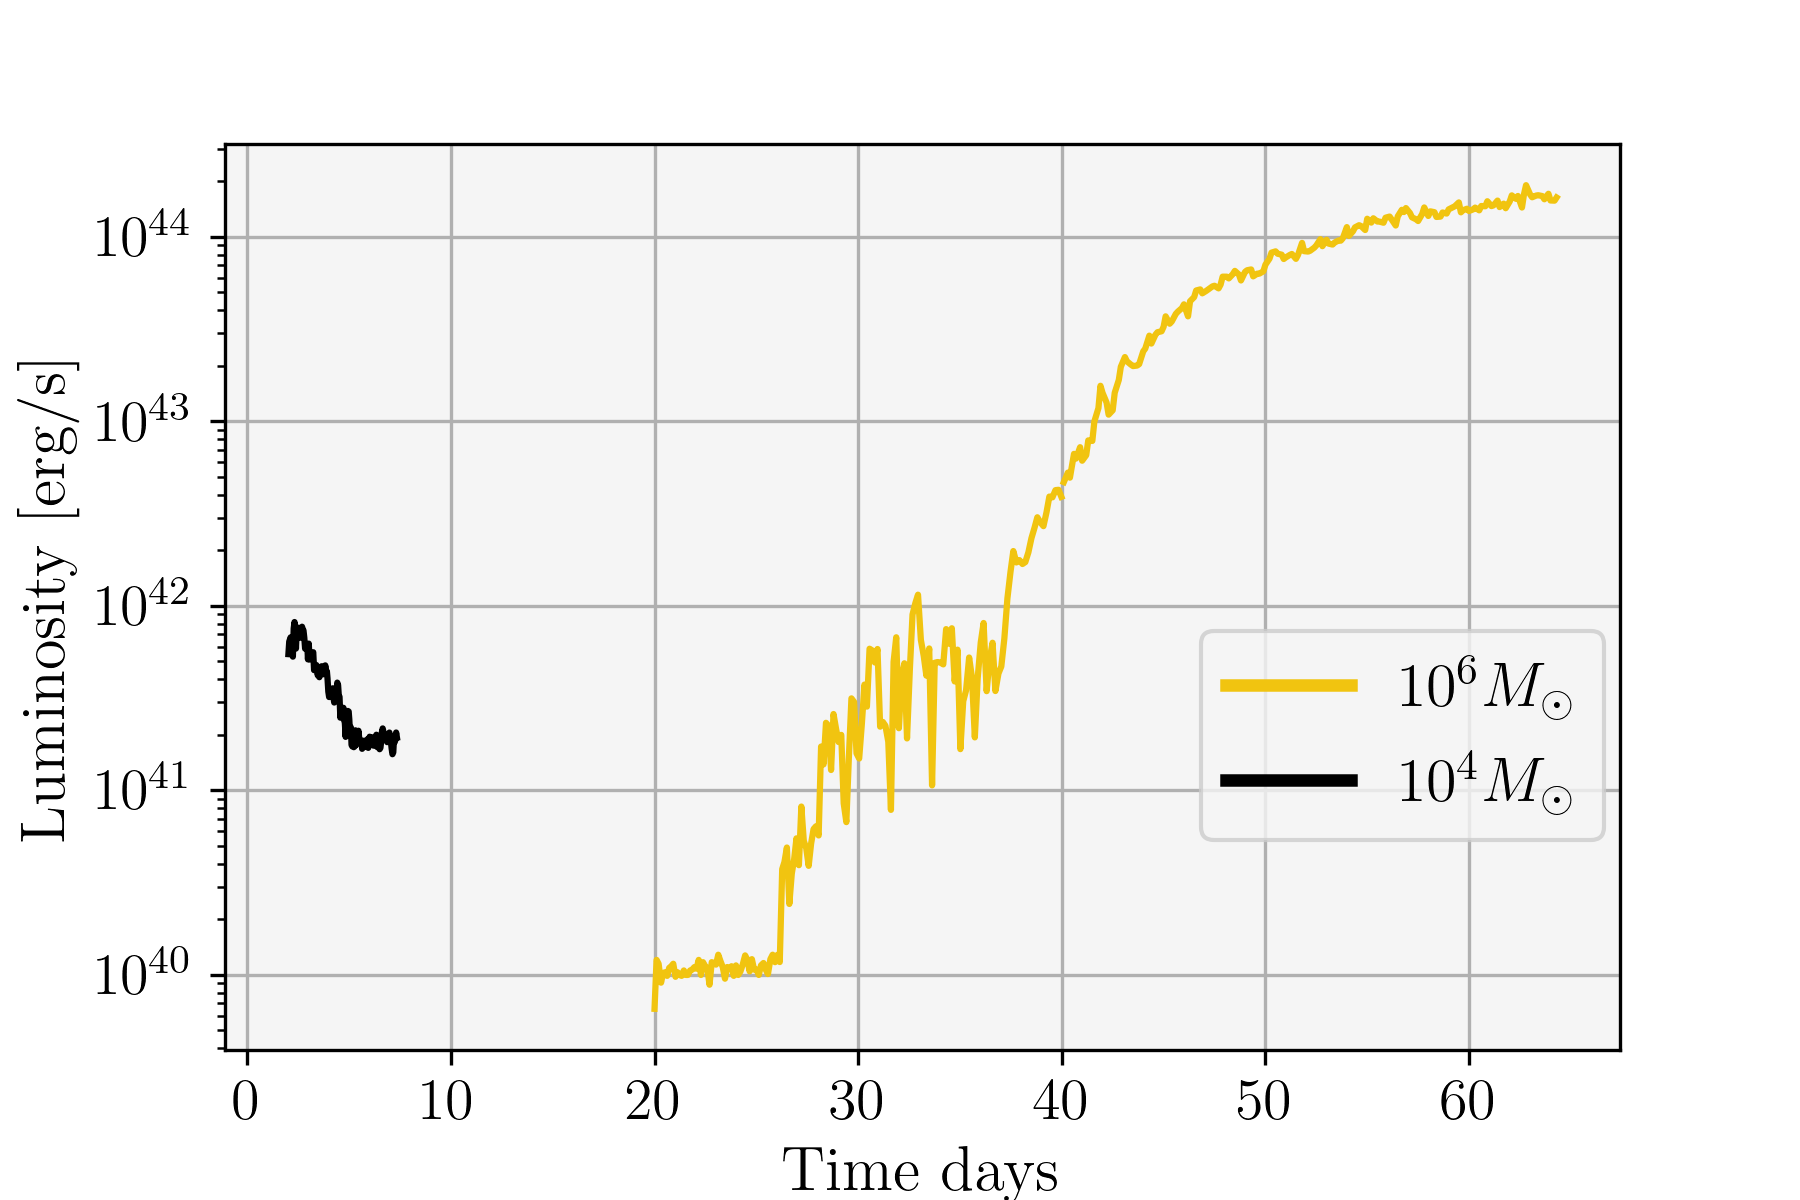
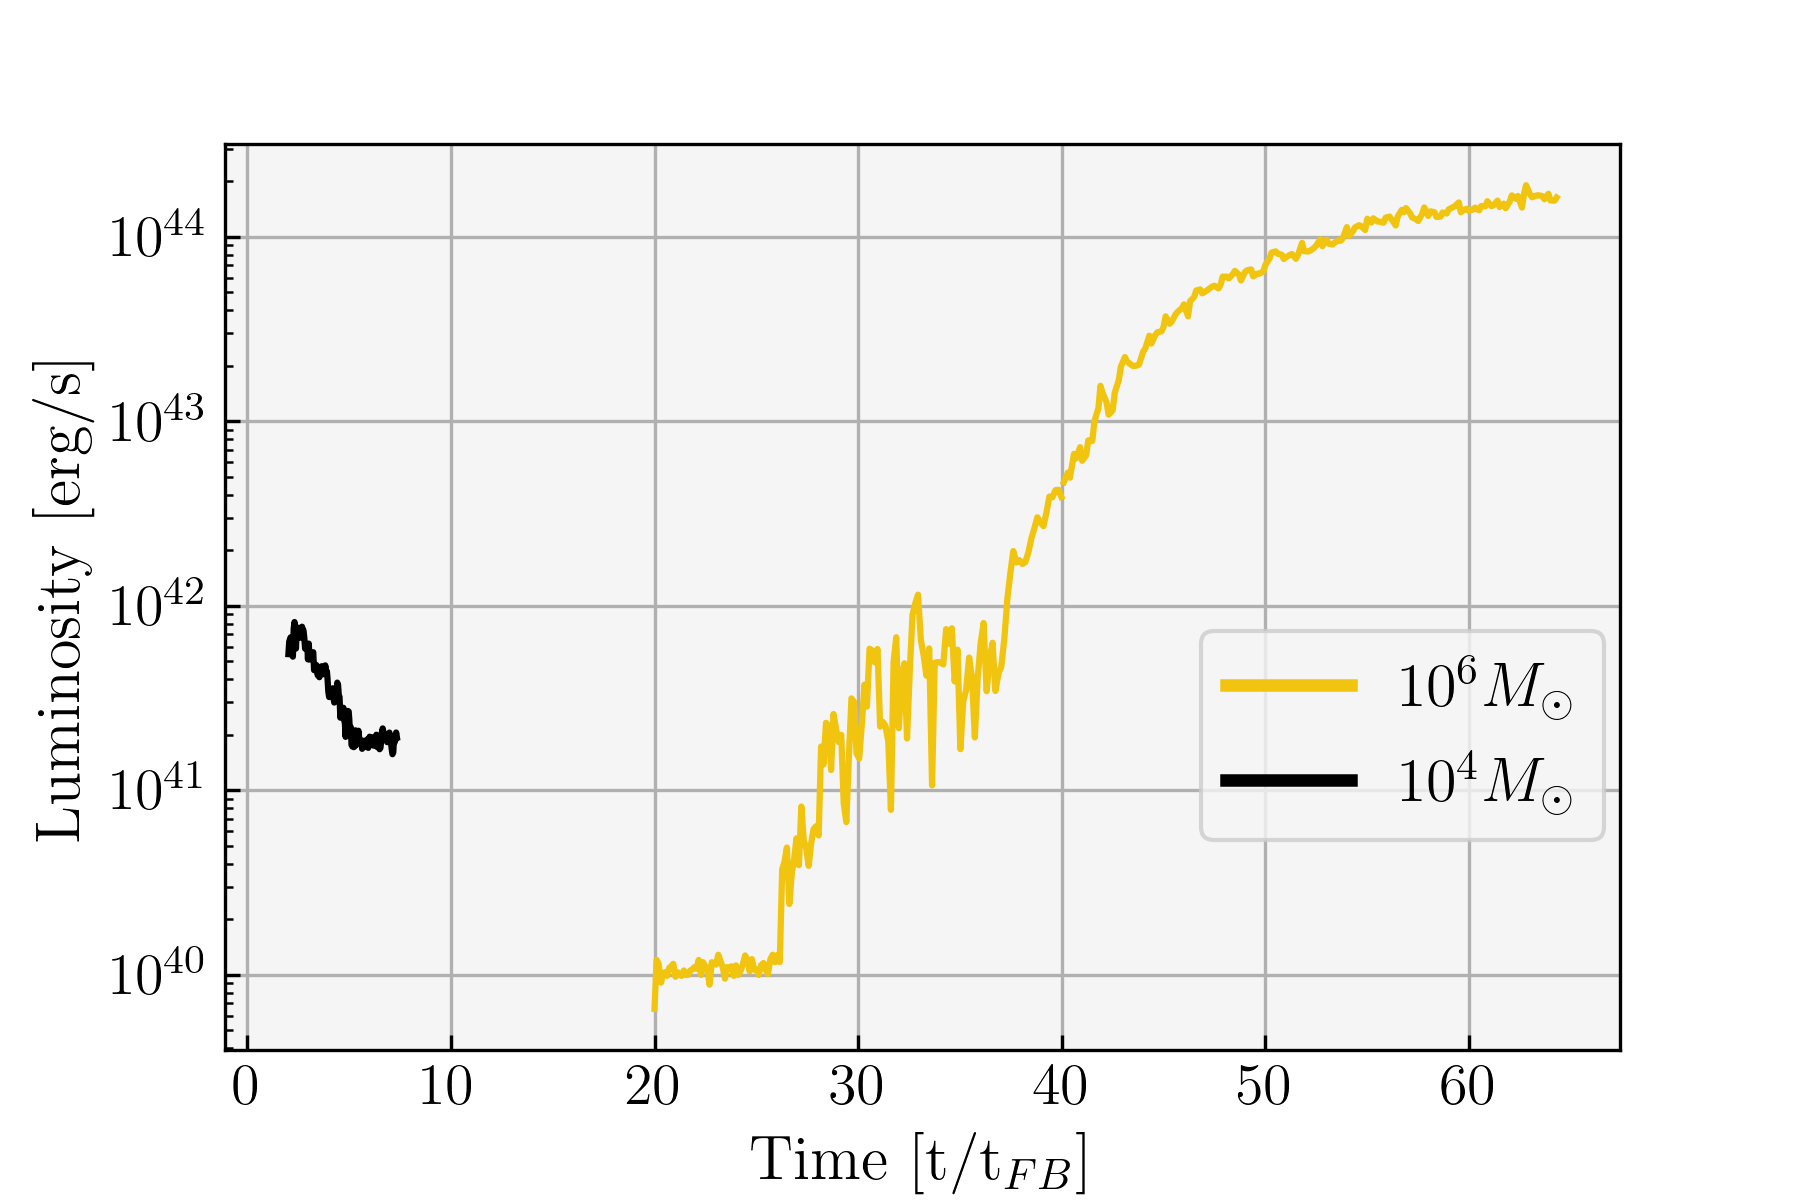
fixed observers. cloudy spectra compiles again

diff --git a/src/Luminosity/spectra_cloudy.py b/src/Luminosity/spectra_cloudy.py
@@ -3,7 +3,7 @@
 """
 Created on December 2023
 
-@author: paola 
+@author: paola, konstantinos
 
 Calculate the luminosity that we will use in the blue (BB) curve as sum of multiple BB.
 
@@ -21,27 +21,15 @@ from scipy.optimize import fsolve
 import h5py
 import healpy as hp
 
-
 # Chocolate Imports
+import src.Utilities.prelude as c
 from src.Opacity.cloudy_opacity import old_opacity 
 from src.Calculators.ray_forest import find_sph_coord, ray_maker_forest
-from src.Luminosity.special_radii_tree_cloudy import calc_specialr
-from src.Calculators.select_observers import select_observer 
-from src.Luminosity.select_path import select_snap
+from src.Luminosity.special_radii_tree import calc_specialr
+from src.Calculators.select_observers import select_observer# as select_observer
+from src.Utilities.selectors import select_snap
 from datetime import datetime
-plt.rcParams['text.usetex'] = True
-plt.rcParams['figure.dpi'] = 300
-plt.rcParams['figure.figsize'] = [5 , 4]
 
-# Constants
-c = 3e10 #2.99792458e10 #[cm/s]
-h = 6.62607015e-27 #[gcm^2/s]
-Kb = 1.380649e-16 #[erg/K]
-alpha = 7.5657e-15 #7.5646 * 10**(-15) # radiation density [erg/cm^3K^4]
-sigma_T = 6.6524e-25 #[cm^2] thomson cross section
-Msol_to_g = 2e33 #1.989e33 # [g]
-Rsol_to_cm = 6.957e10
-NSIDE = 4
 
 ###
 # FUNCTIONS
@@ -55,8 +43,8 @@ def log_array(n_min, n_max, lenght):
 
 def planck(Temperature: float, n: float) -> float:
     """ Planck function in a cell. It needs temperature and frequency n. """
-    const = 2*h/c**2
-    fun = const * n**3 / (np.exp(min(300,h*n/(Kb*Temperature))) - 1) #take min to avoid overflow
+    const = 2*c.h/c.c**2
+    fun = const * n**3 / (np.exp(min(300,c.h*n/(c.Kb*Temperature))) - 1) #take min to avoid overflow
 
     return fun
 
@@ -85,7 +73,7 @@ def normalisation(L_x: np.array, x_array: np.array, luminosity_fld: float) -> fl
 
 def find_lowerT(energy_density):
     """ Find temperature from energy density."""
-    T = (energy_density / alpha)**(1/4)
+    T = (energy_density / c.alpha)**(1/4)
     return T
 
 def spectrum(branch_T, branch_den, branch_en, branch_ie, branch_cumulative_taus, branch_v, radius, volume, bol_fld):
@@ -108,19 +96,19 @@ def spectrum(branch_T, branch_den, branch_en, branch_ie, branch_cumulative_taus,
             cv_ratio =  rad_energy_density / (7.6e8 * T * rho)
             vcompton = branch_v[reverse_idx]
             r = radius[reverse_idx]
-            compton_cooling = (0.075 * r / vcompton) * cv_ratio * 0.34 * rho * c * (4 * T * Kb /8.2e-7)
+            compton_cooling = (0.075 * r / vcompton) * cv_ratio * 0.34 * rho * c.c * (4 * T * c.Kb /8.2e-7)
             compton[i] = compton_cooling
 
 
             int_energy_density = branch_ie[reverse_idx]
             cv_temp = int_energy_density / T
-            total_E = int_energy_density + alpha * Tr**4
+            total_E = int_energy_density + c.alpha * Tr**4
 
             if (compton_cooling > 1):
                 print('here')
 
                 def function_forT(x):
-                    to_solve = cv_temp * x + alpha * x**4 - total_E # Elad has cv_temp*rho*x
+                    to_solve = cv_temp * x + c.alpha * x**4 - total_E # Elad has cv_temp*rho*x
                     return to_solve
                 
                 new_T = fsolve(function_forT, Tr)
@@ -140,9 +128,7 @@ def dot_prod(xyz_grid):
     dot_product = np.dot(xyz_grid, np.transpose(xyz_grid))
     dot_product[dot_product < 0] = 0
     dot_product = dot_product * 4 / 192
-
     return dot_product
-
 
 # MAIN
 if __name__ == "__main__":
@@ -186,7 +172,7 @@ if __name__ == "__main__":
     fld_data = np.loadtxt('data/red/reddata_m'+ str(m) + check +'.txt')
     luminosity_fld_fix = fld_data[1]
     
-    for idx_sn in range(1,2): 
+    for idx_sn in range(0,1): 
         snap = snapshots[idx_sn]
         bol_fld = luminosity_fld_fix[idx_sn]
         print(f'Snap {snap}')
@@ -207,7 +193,7 @@ if __name__ == "__main__":
         stops = np.zeros(192) 
         xyz_grid = []
         for iobs in range(0,192):
-            theta, phi = hp.pix2ang(NSIDE, iobs) # theta in [0,pi], phi in [0,2pi]
+            theta, phi = hp.pix2ang(c.NSIDE, iobs) # theta in [0,pi], phi in [0,2pi]
             thetas[iobs] = theta
             phis[iobs] = phi
             observers.append( (theta, phi) )
@@ -234,23 +220,24 @@ if __name__ == "__main__":
 
             stops[iobs] = rmax
 
-        # rays is Er of Elad 
-        tree_indexes, rays_T, rays_den, rays, rays_ie, rays_radii, _, rays_v = ray_maker_forest(snap, m, check, thetas, phis, stops, num)
-
-        lum_n = []
+        # Make rays
+        rays = ray_maker_forest(snap, m, check, thetas, phis, stops, num, 
+                                'opacity')
 
         # Find volume of cells
-        # Radii has num+1 cell just to compute the volume for num cell. Then we delete the last radius cell
+        # Radii has num+1 cell just to compute the volume for num cell. 
+        # Then we delete the last radius cell
+        lum_n = []
         for j in range(len(observers)):
             print('ray', j)
 
-            branch_indexes = tree_indexes[j]
-            branch_T = rays_T[j]
-            branch_den = rays_den[j]
-            branch_en = rays[j]
-            branch_ie = rays_ie[j]
-            radius = rays_radii[j]
-            branch_v = rays_v[j]
+            branch_indexes = rays.tree_indexes[j]
+            branch_T = rays.T[j]
+            branch_den = rays.den[j]
+            branch_en = rays.rad[j]
+            branch_ie = rays.ie[j]
+            radius = rays.radii[j]
+            branch_v = rays.v[j]
 
             volume = np.zeros(len(radius)-1)
             for i in range(len(volume)): 
@@ -260,7 +247,7 @@ if __name__ == "__main__":
             radius = np.delete(radius, -1)
 
             # Get thermalisation radius
-            _, branch_cumulative_taus, _, _, _ = calc_specialr(branch_T, branch_den, radius, branch_indexes, select = 'thermr')
+            _, branch_cumulative_taus, _, _, _ = calc_specialr(branch_T, branch_den, radius, branch_indexes, 'cloudy', select = 'thermr')
 
             # Compute specific luminosity of every observers
             lum_n_ray = spectrum(branch_T, branch_den, branch_en, branch_ie, branch_cumulative_taus, branch_v, radius, volume, bol_fld)
@@ -295,7 +282,7 @@ if __name__ == "__main__":
                     pre_saving = '/home/s3745597/data1/TDE/tde_comparison/data/'
                 else:
                     pre_saving = 'data/blue/'
-            with open(f'{pre_saving}000cloudy_nLn_single_m{m}_{snap}_{num}.txt', 'a') as fselect:
+            with open(f'{pre_saving}dot_cloudy_nLn_single_m{m}_{snap}_{num}.txt', 'a') as fselect:
                 fselect.write(f'#snap {snap} L_tilde_n (theta, phi) = ({np.round(wanted_theta,4)},{np.round(wanted_phi,4)}) with num = {num} \n')
                 fselect.write(' '.join(map(str, lum_n_selected[wanted_index])) + '\n')
                 fselect.close()

diff --git a/src/Calculators/select_observers.py b/src/Calculators/select_observers.py
@@ -27,7 +27,24 @@ def find_sph_coord(theta,phi):
     #xyz = [x, y, z]
     return x,y,z
 
+
 def select_observer(wanted_theta, wanted_phi, thetas, phis):
+    x_hp = np.zeros(192)
+    y_hp = np.zeros(192)
+    z_hp = np.zeros(192)
+    wanted_xyz = find_sph_coord(wanted_theta, wanted_phi)
+    
+    # Healpix XYZ
+    for i in range(192): 
+        x_hp[i], y_hp[i], z_hp[i] = find_sph_coord(thetas[i], phis[i])
+        
+    observers = np.array([x_hp, y_hp, z_hp]).T
+    inner_product = [np.dot(wanted_xyz, observer) for observer in observers]
+    index = np.argmax(inner_product) 
+        
+    return index
+
+def old_select_observer(wanted_theta, wanted_phi, thetas, phis):
     """ Gives thetas, phis from helpix and 
     the index of the points closer to the one given by (wanted_theta, wanted_phi)"""
     dist = np.zeros(192)
@@ -48,7 +65,7 @@ if __name__ == '__main__':
     snap = 844
     check = 'fid'
     _, observers, _, _, _, _, _, _, _ = ray_maker(snap, m, check, 500)
-    plot = '2dim'
+    plot = '3dim'
 
     # Observers from ray_maker: theta in [0,pi], phi in [0,2pi]
     thetas = np.zeros(192)
@@ -110,18 +127,36 @@ if __name__ == '__main__':
         
         # Observers from healpix nearest to the ones you want
         x_selected = np.zeros(len(wanted_thetas))
+        x_selected2 = np.zeros(len(wanted_thetas))
+
         y_selected = np.zeros(len(wanted_thetas))
+        y_selected2 = np.zeros(len(wanted_thetas))
+
         z_selected = np.zeros(len(wanted_thetas))
+        z_selected2 = np.zeros(len(wanted_thetas))
+
         for idx in range(len(wanted_thetas)):
             wanted_theta = wanted_thetas[idx]
             wanted_phi = wanted_phis[idx]
-            wanted_index = select_observer(wanted_theta, wanted_phi, thetas, phis)
+            wanted_index = old_select_observer(wanted_theta, wanted_phi, thetas, phis)
+            wanted_index_elad = select_observer(wanted_theta, wanted_phi, thetas, phis)
             x_selected[idx], y_selected[idx], z_selected[idx] = find_sph_coord(thetas[wanted_index], phis[wanted_index])
+            x_selected2[idx], y_selected2[idx], z_selected2[idx] = find_sph_coord(thetas[wanted_index_elad], phis[wanted_index_elad])
+
 
         print('X:' , x_selected)
         print('Y:' , y_selected)
         print('Z:' , z_selected)
-
+        
+        # What Elad Does
+        xhat = (1,0,0)
+        observers = np.array([x_healpix,
+                             y_healpix, 
+                             z_healpix]).T
+        inner_product = [np.dot(xhat, observer) for observer in observers]
+        blue_dot_idx = np.argmax(inner_product)
+        
+        # Plotting
         fig = plt.figure()
         ax = fig.add_subplot(projection = '3d')
         # Create a sphere
@@ -141,13 +176,27 @@ if __name__ == '__main__':
         ax.quiver(xar, yar, zar, x_wanted, y_wanted, z_wanted, arrow_length_ratio=0.1, color = 'k')
 
         ax.scatter(x_selected,y_selected,z_selected, color = col, s=20)
+        ax.scatter(x_selected2,y_selected2,z_selected2, color = col, s=50, marker = 's')
+
         ax.set_xlabel('X')
         ax.set_ylabel('Y')
         ax.set_zlabel('Z')
         plt.tight_layout()
         plt.savefig('Final_plot/observerspectra_healp.png')
-        plt.title('Simulation')
-
+        plt.title('dot vs haversine')
+        
+        # # Elad's point
+        # ax.scatter(observers[blue_dot_idx][0], observers[blue_dot_idx][1], 
+        #             observers[blue_dot_idx][2],
+        #             c = 'b', marker = 's', s = 50, alpha = 0.5)
+        # # Elad's point
+        # ax.scatter(observers[104][0], observers[104][1], 
+        #             observers[104][2],
+        #             c = 'b', marker = 's', s = 50, alpha = 0.5)
+        # ax.scatter(observers[88][0], observers[88][1], 
+        #            observers[88][2],
+        #            c = 'r', marker = 's', s = 50, alpha = 0.5)
+        
     if plot == '2dim':
         Mbh = 10**m 
         Rt =  Mbh**(1/3) # Msol = 1, Rsol = 1
@@ -203,3 +252,5 @@ if __name__ == '__main__':
         plt.savefig('Final_plot/observers_inproj.png')
 
         plt.show()
+        
+

diff --git a/src/Plotting/Light-Curves/spectraplot.py b/src/Plotting/Light-Curves/spectraplot.py
@@ -1,33 +1,31 @@
 import numpy as np
 import matplotlib.pyplot as plt
+import src.Utilities.prelude as c
 plt.rcParams['text.usetex'] = True
 plt.rcParams['figure.dpi'] = 300
-plt.rcParams['figure.figsize'] = [5 , 4]
+plt.rcParams['figure.figsize'] = [3 , 3]
 plt.rc('xtick', labelsize = 15) 
 plt.rc('ytick', labelsize = 15) 
 
 import sys
 sys.path.append('/Users/paolamartire/tde_comparison')
 
-m = 4
-snap = 394
-num = 5000
-opacity = 'lte'
+m = 6
+snap = 844
+num = 1000
+pre = 'dot'
+opacity = 'cloudy'
 axis = 'temp'
 
-c = 2.99792458e10 #[cm/s]
-h = 6.62607015e-27 #[gcm^2/s]
-Kb = 1.380649e-16 #[gcm^2/s^2K]
-
 def temperature(n):
-        return n * h / Kb
+        return n * c.h / c.Kb
 
 def frequencies(T):
-        return T * Kb / h
+        return T * c.Kb / c.h
 
 def wavelength(n):
         # in angststrom 
-        return c *1e8 / n 
+        return c.c *1e8 / n 
 
 # x axis 
 x_array = np.loadtxt(f'data/blue/spectrafreq_m{m}.txt')
@@ -39,7 +37,7 @@ n_end = frequencies(T_end)
 lamda = wavelength(n_array)
 
 # y axis 
-nL_tilde_n = np.loadtxt(f'data/blue/TEST{opacity}_nLn_single_m{m}_{snap}_{num}.txt')
+nL_tilde_n = np.loadtxt(f'data/blue/{pre}_{opacity}_nLn_single_m{m}_{snap}_{num}.txt')
 
 if axis == 'freq':
         x_axis = n_array
@@ -71,7 +69,7 @@ ax2.set_xlim(wavelength(n_start), wavelength(n_end))
 ax1.loglog()
 ax1.grid()
 ax2.plot(wavelength(n_array), n_array * nL_tilde_n[0],  c = 'b')
-ax2.set_xlim(c/n_end *1e8, c/n_start * 1e8)
+ax2.set_xlim(c.c/n_end *1e8, c.c/n_start * 1e8)
 ax2.invert_xaxis()
 ax2.loglog()
 ax2.set_xlabel(r'$log_{10}\lambda [\AA]$', fontsize = 16)

diff --git a/src/Plotting/Light-Curves/red-curves.py b/src/Plotting/Light-Curves/red-curves.py
@@ -40,10 +40,10 @@ days4 = [0.505,0.515,0.525,0.5325,0.5425,0.5525,0.56,0.57,0.58,0.59,0.5975,0.607
 # red4_CHR = np.loadtxt(pre + '4-S60ComptonHires.txt')
 
 fig = plt.figure()
-plt.plot(days6_before, lum6_before, c = AEK)
-plt.plot(days6, red6, c = AEK, label = r'$10^6 M_\odot$')
+plt.plot(np.multiply(days6_before,40), lum6_before, c = AEK)
+plt.plot(np.multiply(days6,40), red6, c = AEK, label = r'$10^6 M_\odot$')
 #plt.plot(red6[0], red6[1], c = 'tab:red', label = '6')
-plt.plot(days4, red4, c = 'k', label = r'$10^4 M_\odot$')#, label = '4')#- fiducial')
+plt.plot(np.multiply(days4,4), red4, c = 'k', label = r'$10^4 M_\odot$')#, label = '4')#- fiducial')
 #plt.plot(days4_CHR, red4_CHR, c = 'tab:green', label = '4 - Compton HiRes')
 
 # Eddington lines

diff --git a/src/Plotting/Projection/photosphere_on_top_of_T.py b/src/Plotting/Projection/photosphere_on_top_of_T.py
@@ -15,9 +15,9 @@ from src.Calculators.ray_forest import find_sph_coord, ray_finder, ray_maker_for
 from src.Luminosity.special_radii_tree import get_specialr
 from src.Calculators.THREE_tree_caster import grid_maker
 
-m = 6
+m = 4
 num = 400
-check = 'fid' # S60ComptonHires' #'S60ComptonHires'
+check = 'S60ComptonHires' # S60ComptonHires' #'S60ComptonHires'
 snapshots, days = s.select_snap(m, check)
 opacity_kind = s.select_opacity(m)
 #%% Get Midplane
@@ -80,7 +80,7 @@ cb = plt.colorbar(img)
 cb.set_label(cb_text, fontsize = 14)
 ax.set_title('Midplane', fontsize = 16)
 ax.set_xlim(-40,)
-ax.set_ylim(-30,)
+ax.set_ylim(-20,)
 
 # Plot the ones in the equatorial plane
 photo_x = []

diff --git a/src/Calculators/ray_tree.py b/src/Calculators/ray_tree.py
@@ -12,7 +12,7 @@ sys.path.append('/Users/paolamartire/tde_comparison')
 import numpy as np
 from scipy.spatial import KDTree
 import healpy as hp
-from src.Luminosity.select_path import select_prefix
+from src.Utilities.selectors import select_prefix
 import matplotlib.pyplot as plt
 AEK = '#F1C410'
 from src.Utilities.isalice import isalice
